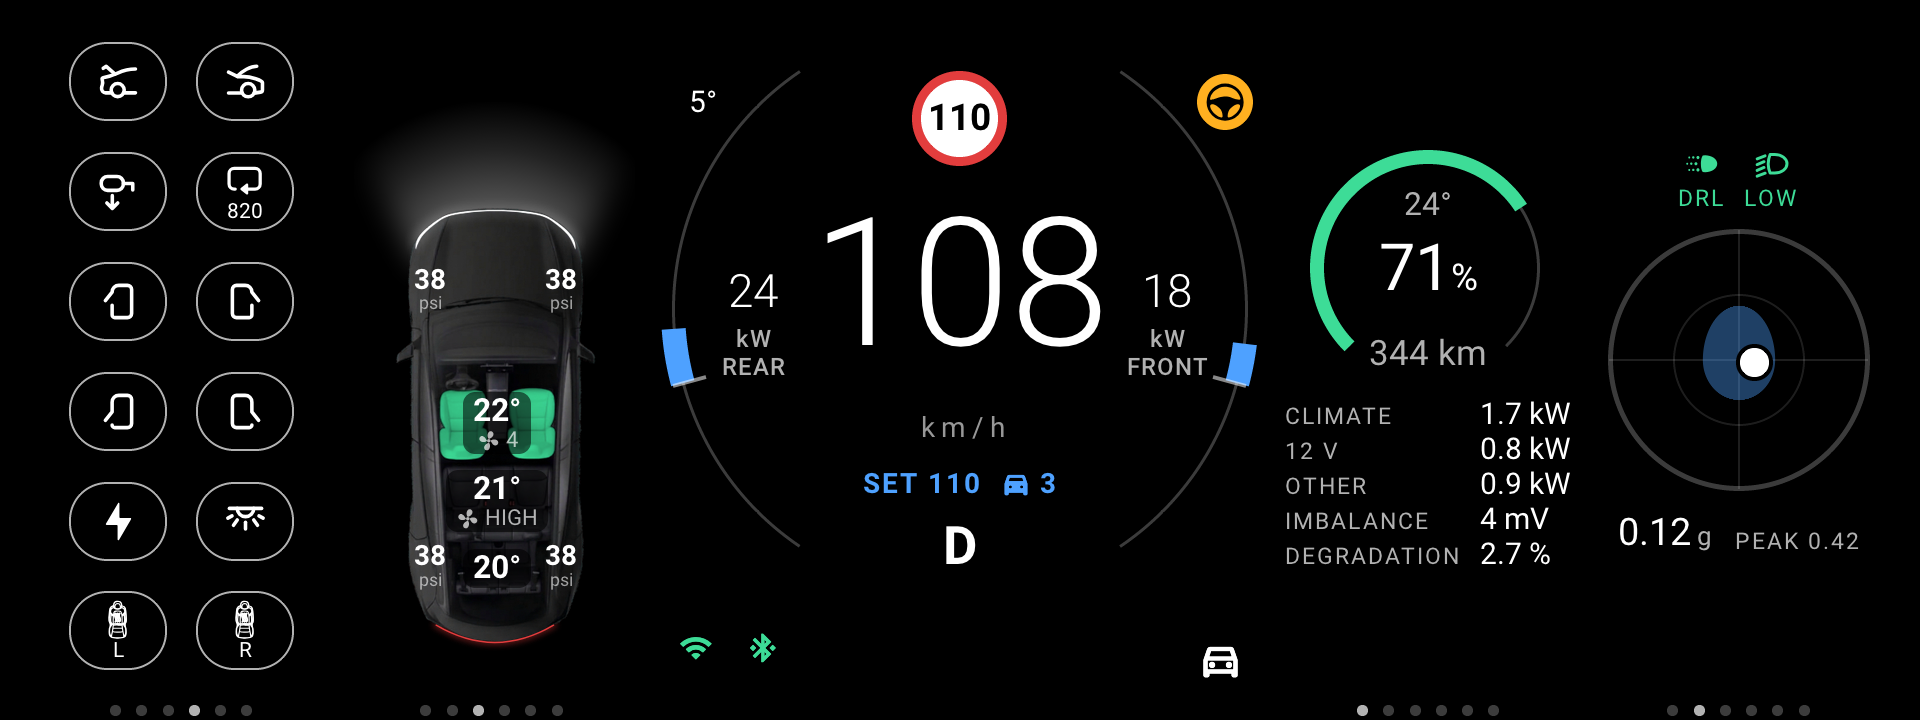
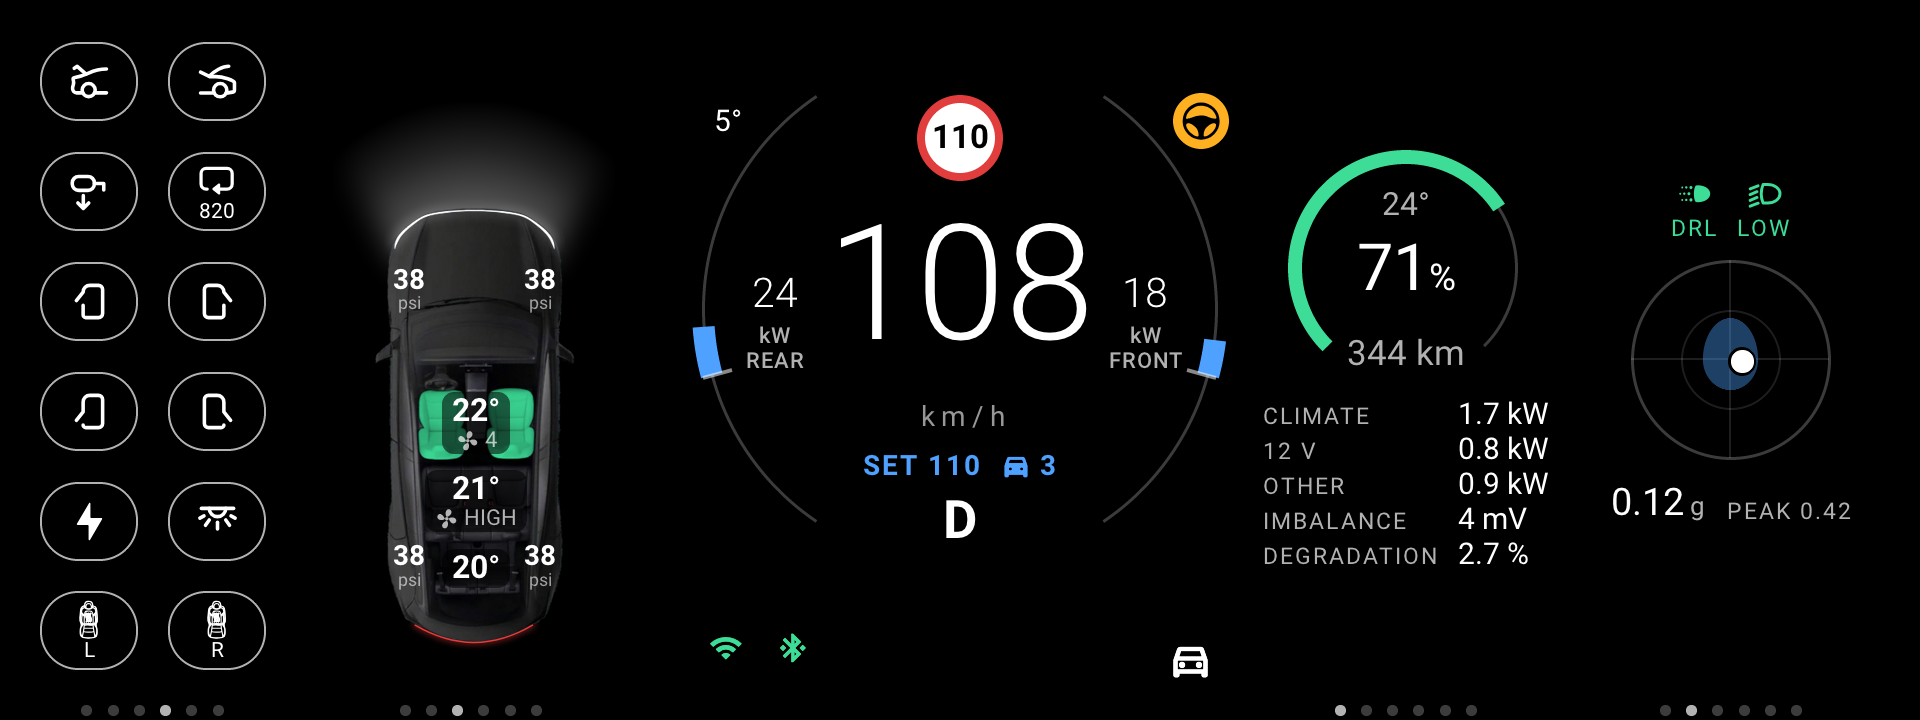
app: basic's cards spread evenly, with room of their own
- each side's two cards spread by their widths: the screen's edge, the
  gap between them and the ring as far apart, where each sat in the middle
  of a half (a card as wide as the battery's ran up to its neighbour)
- a card's width the widest it has been in the layout, measured and laid
  out again in the same frame when it grows: nothing moves after
- each card 20 dp in from its slot's sides (the drive card's ball fills
  less), and the ring a tenth smaller than the row: two cards a side
- the README's basic screenshot redrawn

diff --git a/app/ui/dash_ui.c b/app/ui/dash_ui.c
@@ -5376,6 +5376,33 @@ static void card_set(const dash_state_t *s, int c, float cx, float w)
 		break;
 	}
 }
+/* Each basic card's widest so far in this layout (its visible parts' extent, as drawn last frame): each side's two cards
+ * are spread by it, the screen's edge, the gap between them and the ring as far apart, so a card as wide as the
+ * battery's has the same room as its neighbour, and a figure growing moves nothing after it once has (reset with the
+ * layout). */
+static float card_wide[DASH_CARDS];
+static float card_extent(int c)
+{
+	lv_obj_t *p[10] = {0};
+	switch (c) {
+	case DASH_CARD_ENERGY: p[0] = dial, p[1] = stats_box, p[2] = charge_box; break;
+	case DASH_CARD_G: p[0] = gball, p[1] = g_val, p[2] = g_peak, p[3] = brake_temps, p[4] = pedal, p[5] = pedal_name,
+			  p[6] = pedal_val, p[7] = brake_car; break;
+	case DASH_CARD_CAR: p[0] = cab.grp, p[1] = cab.frame; break;
+	case DASH_CARD_BUTTONS: return 2 * PC(52) + PC(16); /* the two columns, 16 dp apart */
+	case DASH_CARD_ROUTE: p[0] = dest_card, p[1] = no_route; break;
+	case DASH_CARD_POWER: p[0] = pdial, p[1] = pdial_kw, p[2] = pdial_unit, p[3] = pdial_range; break;
+	}
+	int32_t x1 = INT32_MAX, x2 = INT32_MIN;
+	for (int i = 0; i < 10; i++) {
+		if (!p[i] || lv_obj_is_hidden(p[i])) continue;
+		lv_area_t a;
+		lv_obj_get_coords(p[i], &a);
+		x1 = a.x1 < x1 ? a.x1 : x1, x2 = a.x2 > x2 ? a.x2 : x2;
+	}
+	return x2 > x1 ? (float)(x2 - x1 + 1) : 0;
+}
+
 static void basic_layout(const dash_state_t *s)
 {
 	int key = 1;
@@ -5386,22 +5413,41 @@ static void basic_layout(const dash_state_t *s)
 		else card_slot[c] = i;
 		key = key * 8 + c + 1;
 	}
-	if (key != layout_key) cards_parts(true), layout_key = key;
+	if (key != layout_key) cards_parts(true), layout_key = key, memset(card_wide, 0, sizeof card_wide);
+	/* the ring a tenth smaller than the row: two cards a side (main.dart's one) want the room */
+	G.D *= 0.9f, G.r = G.D / 2 - px(6), G.aw = G.r * 0.085f;
 	float rl = G.cx - G.D / 2 - px(8), rr = G.cx + G.D / 2 + px(8), lw = (rl - G.ml) / 2, rw = (G.W - G.ml - rr) / 2;
-	float x0[4] = {G.ml, G.ml + lw, rr, rr + rw}, w[4] = {lw, lw, rw, rw};
-	for (int i = 0; i < 4; i++) slot_x[i] = x0[i], dots_place(i, x0[i] + w[i] / 2, ST.cards[i], -1);
-	slot_x[4] = G.W - G.ml;
-	ring_place();
-	set_chips(s);
-	set_links(s);
-	/* the car panel and AA under the ring's right end, as the links under its left */
-	int car_x = ri(G.cx + G.D / 2 - PL(20) - PL(12));
-	lv_obj_set_pos(car_panel, car_x, car_at[1]);
-	aa_place(car_x, car_at[1]);
-	set_ring(s);
-	ring_dirty(s);
-	for (int c = 0; c < DASH_CARDS; c++)
-		if (card_slot[c] >= 0) card_set(s, c, x0[card_slot[c]] + w[card_slot[c]] / 2, w[card_slot[c]]);
+	float x0[4] = {G.ml, G.ml + lw, rr, rr + rw}, w[4] = {lw, lw, rw, rw}, mid[4];
+	for (int pass = 0; pass < 2; pass++) { /* laid out, measured, and laid out again at once if a card grew */
+		for (int side = 0; side < 2; side++) { /* the edge, the gap between the two and the ring as far apart */
+			int a = 2 * side, b = a + 1;
+			float wa = ST.cards[a] >= 0 && ST.cards[a] < DASH_CARDS && card_slot[ST.cards[a]] == a ? card_wide[ST.cards[a]] : 0;
+			float wb = ST.cards[b] >= 0 && ST.cards[b] < DASH_CARDS && card_slot[ST.cards[b]] == b ? card_wide[ST.cards[b]] : 0;
+			float l = x0[a], span = 2 * w[a], gap = (span - wa - wb) / 3;
+			if (!wa || !wb || gap < 0) mid[a] = l + w[a] / 2, mid[b] = l + 1.5f * w[a]; /* not yet measured, or no room: halves */
+			else mid[a] = l + gap + wa / 2, mid[b] = l + 2 * gap + wa + wb / 2;
+		}
+		for (int i = 0; i < 4; i++) slot_x[i] = x0[i], dots_place(i, mid[i], ST.cards[i], -1);
+		slot_x[4] = G.W - G.ml;
+		ring_place();
+		set_chips(s);
+		set_links(s);
+		/* the car panel and AA under the ring's right end, as the links under its left */
+		int car_x = ri(G.cx + G.D / 2 - PL(20) - PL(12));
+		lv_obj_set_pos(car_panel, car_x, car_at[1]);
+		aa_place(car_x, car_at[1]);
+		set_ring(s);
+		ring_dirty(s);
+		for (int c = 0; c < DASH_CARDS; c++)
+			if (card_slot[c] >= 0) card_set(s, c, mid[card_slot[c]], w[card_slot[c]] - 2 * px(20)); /* (its room: 20 dp in from each side) */
+		lv_obj_update_layout(root);
+		bool grew = false;
+		for (int c = 0; c < DASH_CARDS; c++) {
+			float e = card_slot[c] >= 0 ? card_extent(c) : 0;
+			if (e > card_wide[c] + 0.5f) card_wide[c] = e, grew = true;
+		}
+		if (!grew) break;
+	}
 	if (card_slot[DASH_CARD_G] < 0) pedal_brakes(s, G.cx, 0, 0, false, 0); /* the line along the top, still */
 }
 
